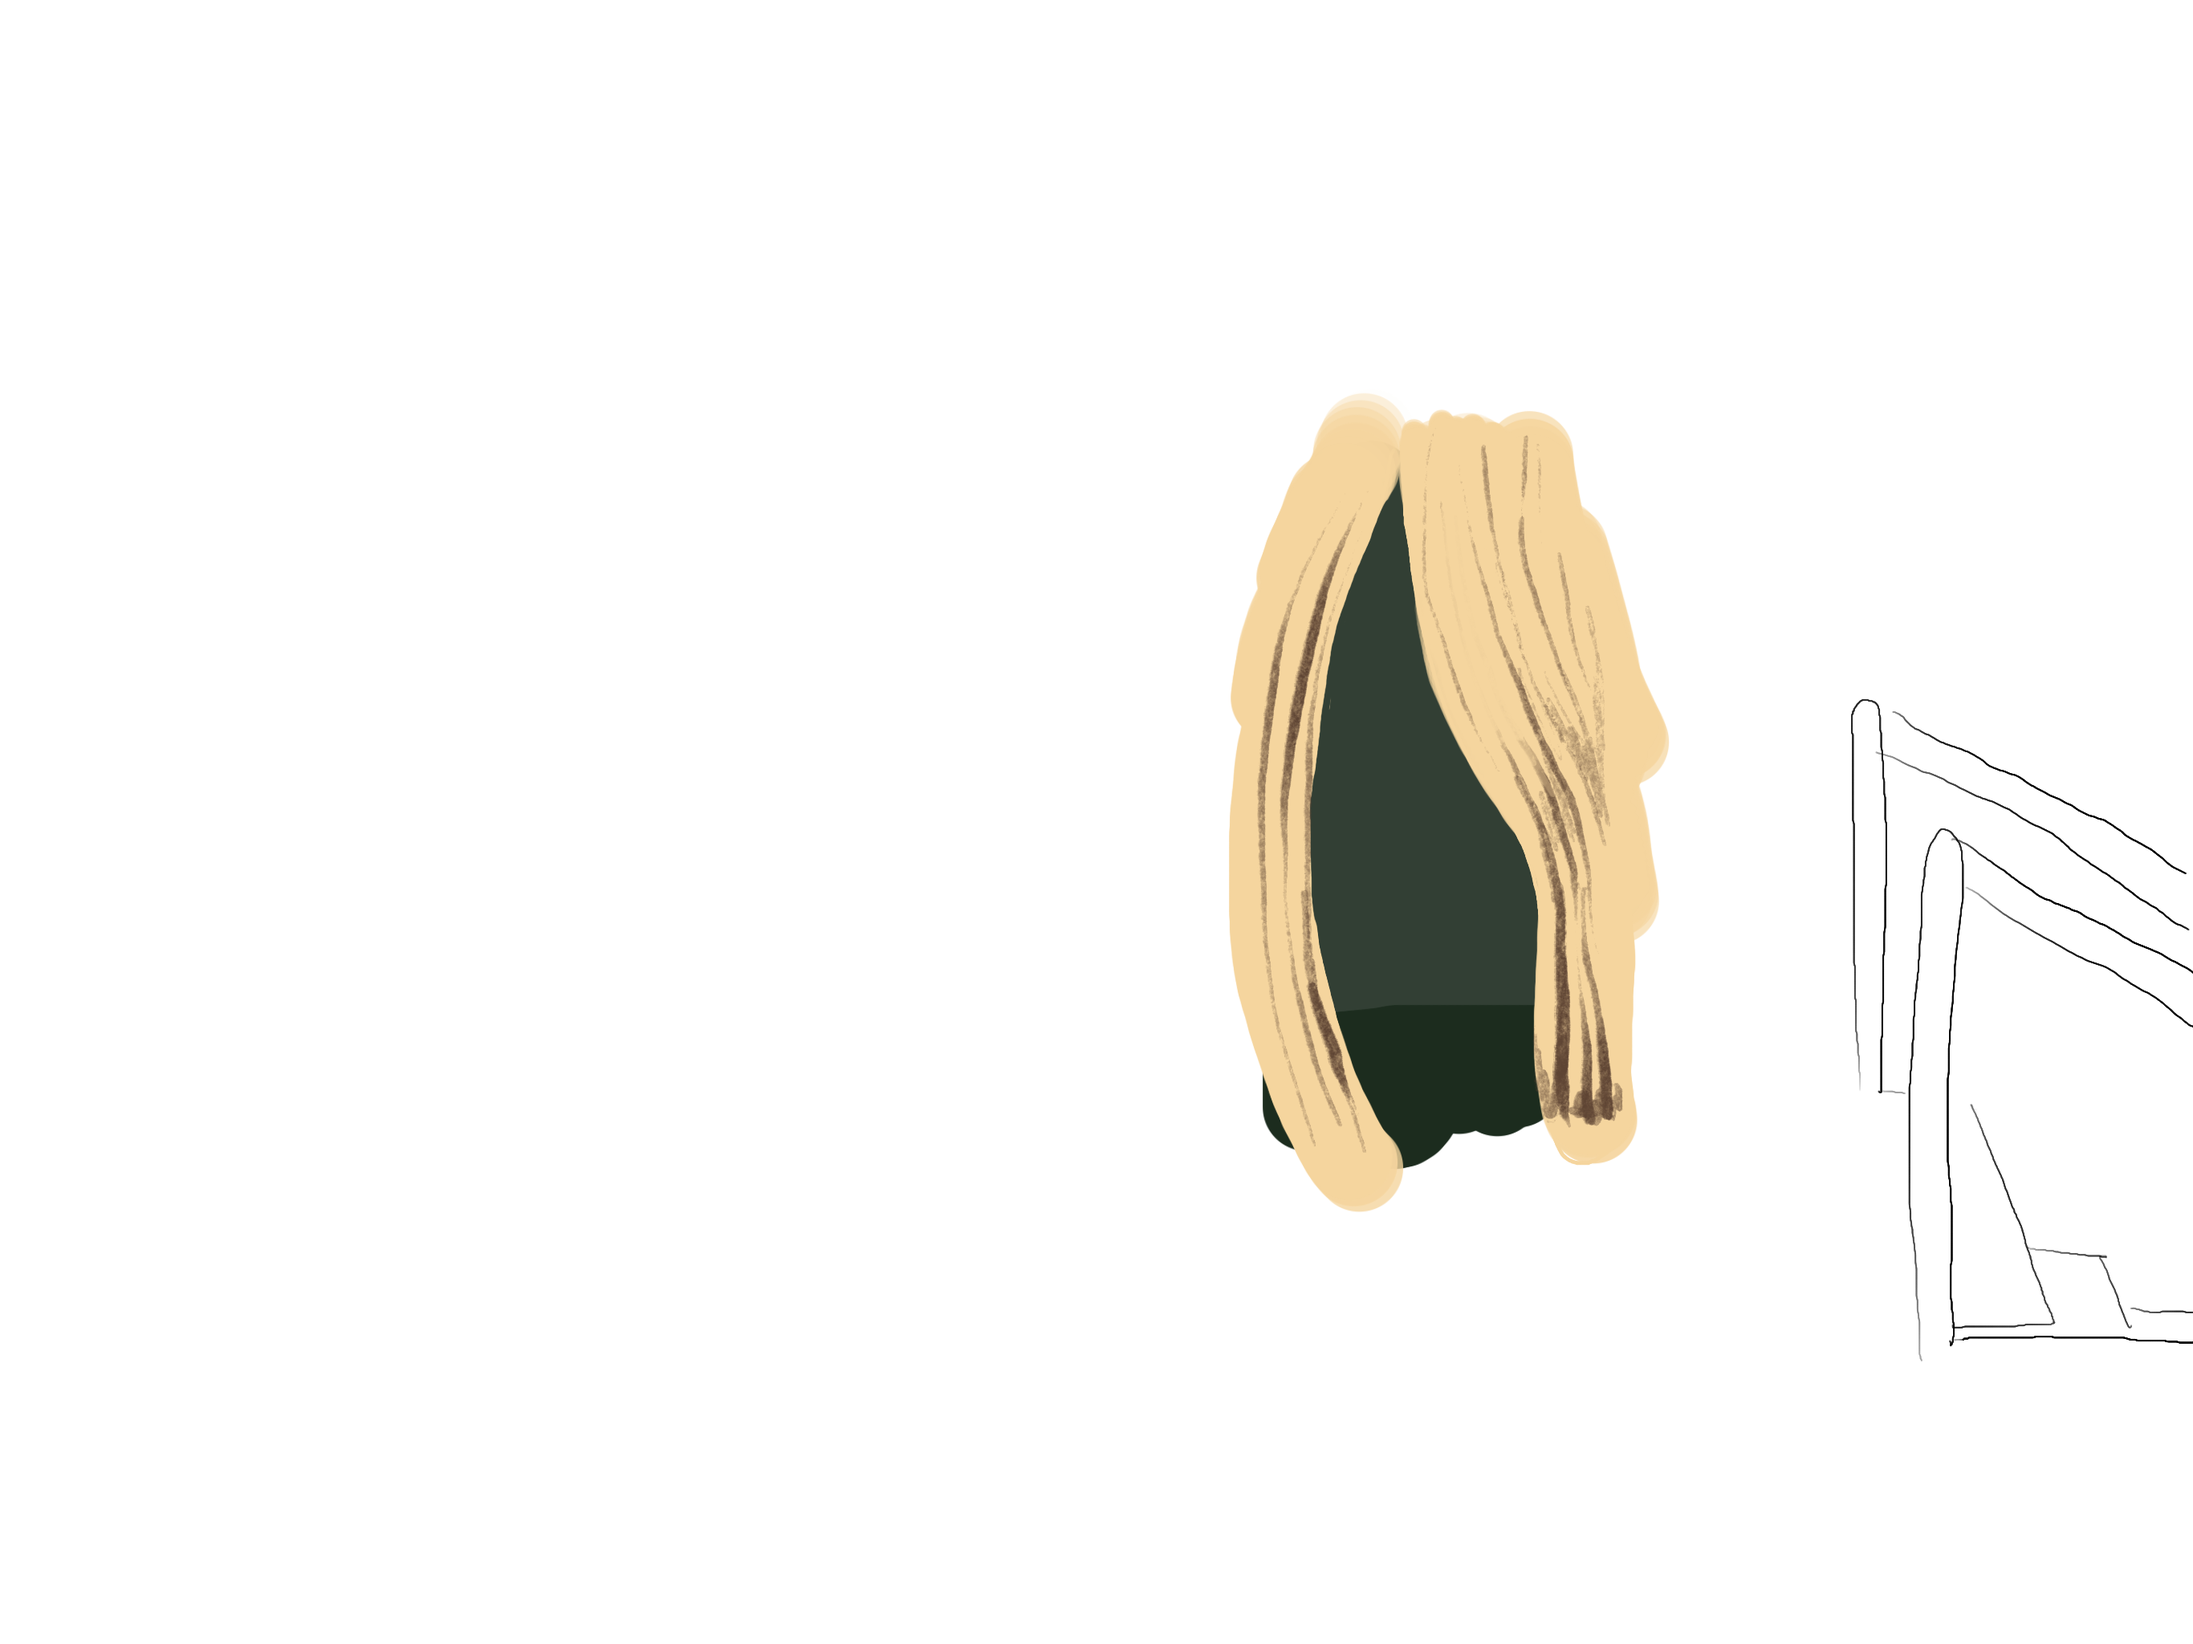
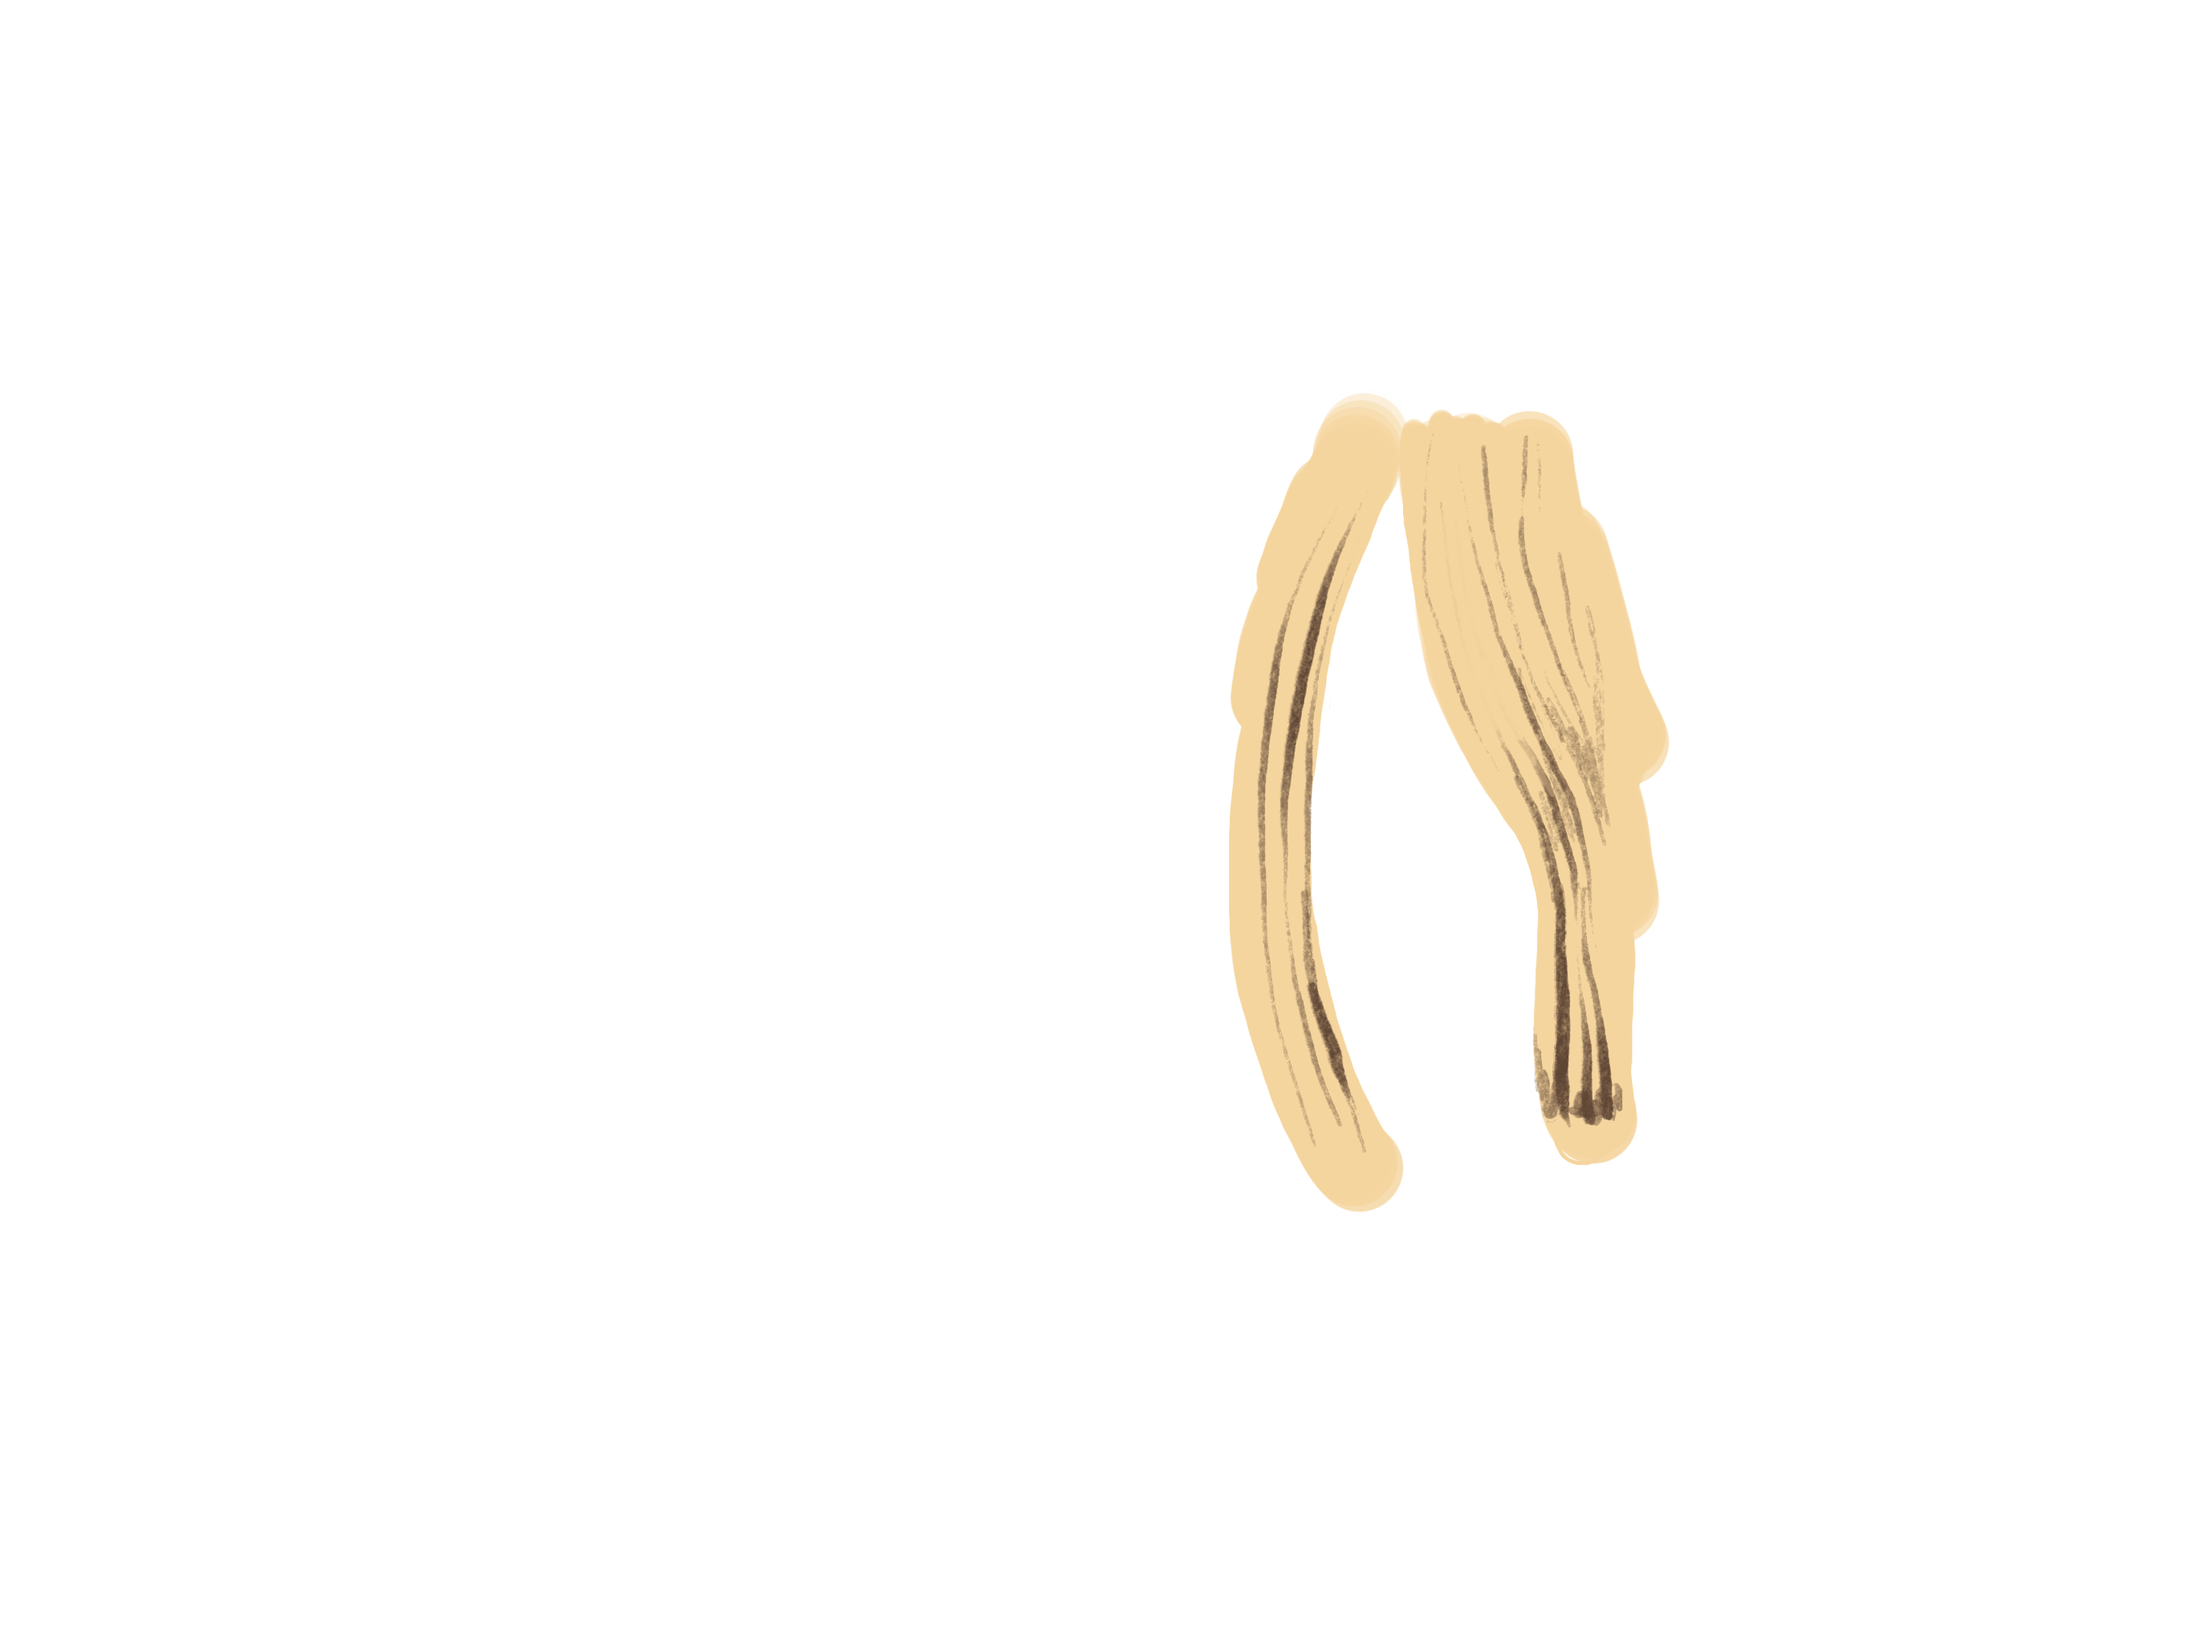
Working on lobby style room images and updating buttons

Changed region(s): [[0.5911, 0.2812, 0.7156, 0.7188], [0.56, 0.6562, 0.5911, 0.6875]]

diff --git a/src/ButtonRoom.jsx b/src/ButtonRoom.jsx
@@ -8,8 +8,6 @@ import { autoType } from "d3";
 export function ButtonRoom() {
   const [mousePos, setMousePos] = useState({});
   const [showLight, setShowLight] = useState(false);
-  const [left, setLeft] = useState({});
-  const [top, setTop] = useState({});
   const [openCurtain, setOpenCurtain] = useState(true);
 
   useEffect(() => {
@@ -49,26 +47,17 @@ export function ButtonRoom() {
 
   return (
     <div>
-      <div>
-        <img className="face" src={face} />
-        <img
-          id="pupilspainting"
-          src={pupils}
-          style={{
-            position: "relative",
-            height: "100vh",
-          }}
-        />
-      </div>
-      <button id="lightswitch" onClick={handleShowLight}>
-        toggle light
+      <button onClick={handleShowLight}>
+        <img id="lightswitch" src="./src/assets/images/lightswitch.png" />
       </button>
       <button id="opencurtain" onClick={handleOpenCurtain}>
         {" "}
         toggle curtain{" "}
       </button>
       <Curtain show={openCurtain} />
-      <img className="roombackground" src="./src/assets/images/hotel.png" />
+
+      <img className="counter" src="./src/assets/images/counter.png" />
+      <img className="roombackground" src="./src/assets/images/home_background.png" />
       <img className="opencurtain" src="./src/assets/images/opencurtain.png" />
 
       <Light show={showLight} />

diff --git a/src/index.css b/src/index.css
@@ -167,6 +167,15 @@ html {
 
 }
 
+.counter{
+  position: absolute;
+  z-index: 3;
+  height: 675px;
+  left: 50px;
+  top: 300px;
+}
+
+
 #lightswitch {
   background-color:transparent;
   color: transparent;
